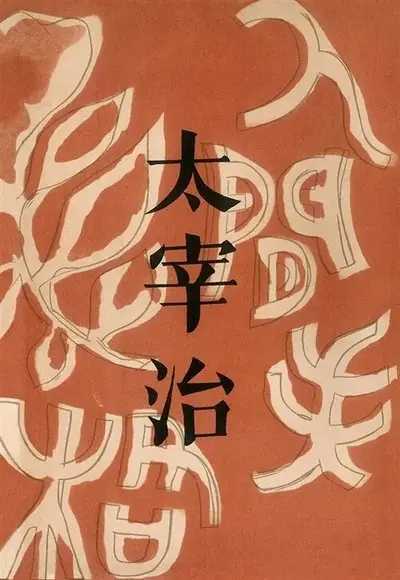
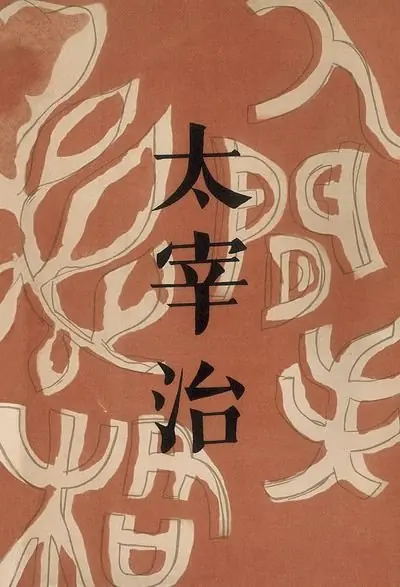
Bookshelf: photographed spines for Evidence That Demands a Verdict, Sapiens, No Longer Human
Evidence: cut from an Amazon photo of the book lying flat, straightened
and turned upright. Sapiens: from Amazon 3D renders (Tenth Anniversary
Edition), straightened and restored to its real width. No Longer Human:
Kyobo spine scan, plus Kyobo's facsimile of the 1948 Chikuma Shobo cover
and the user's size, 130 x 189 x 14 mm.

diff --git a/books.html b/books.html
@@ -463,13 +463,13 @@
             </div>
             <div class="cover-caption" aria-hidden="true"><span class="cc-t">Come Alive by the Spirit of the Lord</span><span class="cc-a">Choi Moon-jeong</span></div>
           </li>
-          <li class="slot thin" style="--h:11.78; --w:1.49; --cr:0.690; --cloth:#b76441; --ink-on:#f3efe6">
+          <li class="slot thin img-spine" style="--h:11.72; --w:1.39; --cr:0.681; --cloth:#a9694c; --ink-on:#f3efe6">
             <button class="hit" type="button" aria-expanded="false"
                     aria-label="No Longer Human (인간 실격) by Dazai, Osamu"></button>
             <div class="book" aria-hidden="true">
-              <div class="face spine-face"><span class="spine-title">No Longer Human</span><span class="spine-author">Dazai</span></div>
+              <div class="face spine-face" style="background-image: url(covers/no-longer-human-spine.webp)"><span class="spine-title">No Longer Human</span><span class="spine-author">Dazai</span></div>
               <div class="face top-face"></div>
-              <div class="face cover-face"><img data-src="covers/no-longer-human.webp" alt="" width="400" height="580"></div>
+              <div class="face cover-face"><img data-src="covers/no-longer-human.webp" alt="" width="400" height="587"></div>
             </div>
             <div class="cover-caption" aria-hidden="true"><span class="cc-t">No Longer Human</span><span class="cc-a">Osamu Dazai</span></div>
           </li>
@@ -493,11 +493,11 @@
             </div>
             <div class="cover-caption" aria-hidden="true"><span class="cc-t">Baptism: Its Purpose, Practice and Power</span><span class="cc-a">Michael Green</span></div>
           </li>
-          <li class="slot" style="--h:14.02; --w:3.03; --cr:0.669; --cloth:#f8f5ee; --ink-on:#1c1a16">
+          <li class="slot img-spine" style="--h:14.02; --w:3.03; --cr:0.669; --cloth:#f8f5ee; --ink-on:#1c1a16">
             <button class="hit" type="button" aria-expanded="false"
                     aria-label="Sapiens: A Brief History of Humankind by Harari, Yuval Noah"></button>
             <div class="book" aria-hidden="true">
-              <div class="face spine-face"><span class="spine-title">Sapiens</span><span class="spine-author">Harari</span></div>
+              <div class="face spine-face" style="background-image: url(covers/sapiens-a-brief-history-of-humankind-spine.webp)"><span class="spine-title">Sapiens</span><span class="spine-author">Harari</span></div>
               <div class="face top-face"></div>
               <div class="face cover-face"><img data-src="covers/sapiens-a-brief-history-of-humankind.webp" alt="" width="400" height="598"></div>
             </div>
@@ -623,11 +623,11 @@
             </div>
             <div class="cover-caption" aria-hidden="true"><span class="cc-t">Mere Christianity</span><span class="cc-a">C. S. Lewis</span></div>
           </li>
-          <li class="slot" style="--h:14.96; --w:4.60; --cr:0.697; --cloth:#090909; --ink-on:#f3efe6">
+          <li class="slot img-spine" style="--h:14.96; --w:4.60; --cr:0.697; --cloth:#090909; --ink-on:#f3efe6">
             <button class="hit" type="button" aria-expanded="false"
                     aria-label="Evidence That Demands a Verdict by McDowell, Josh"></button>
             <div class="book" aria-hidden="true">
-              <div class="face spine-face"><span class="spine-title">Evidence That Demands a Verdict</span><span class="spine-author">McDowell</span></div>
+              <div class="face spine-face" style="background-image: url(covers/evidence-that-demands-a-verdict-spine.webp)"><span class="spine-title">Evidence That Demands a Verdict</span><span class="spine-author">McDowell</span></div>
               <div class="face top-face"></div>
               <div class="face cover-face"><img data-src="covers/evidence-that-demands-a-verdict.webp" alt="" width="400" height="574"></div>
             </div>
